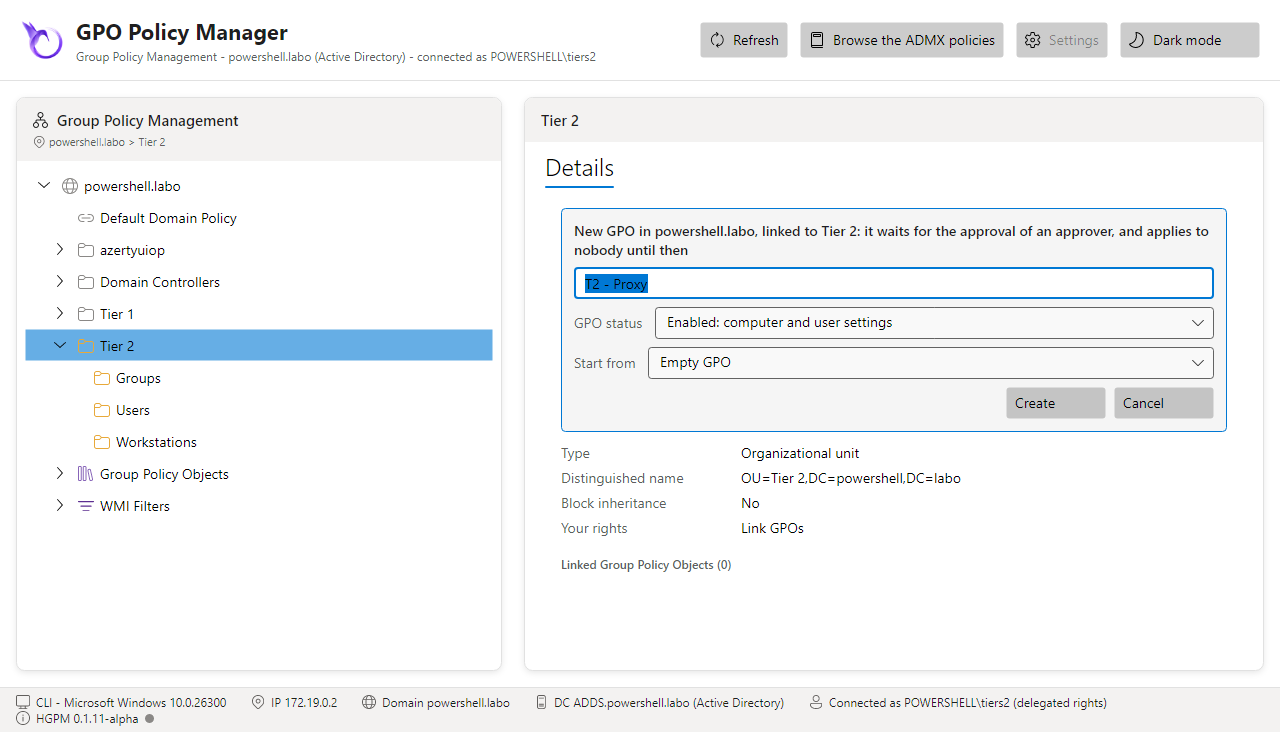
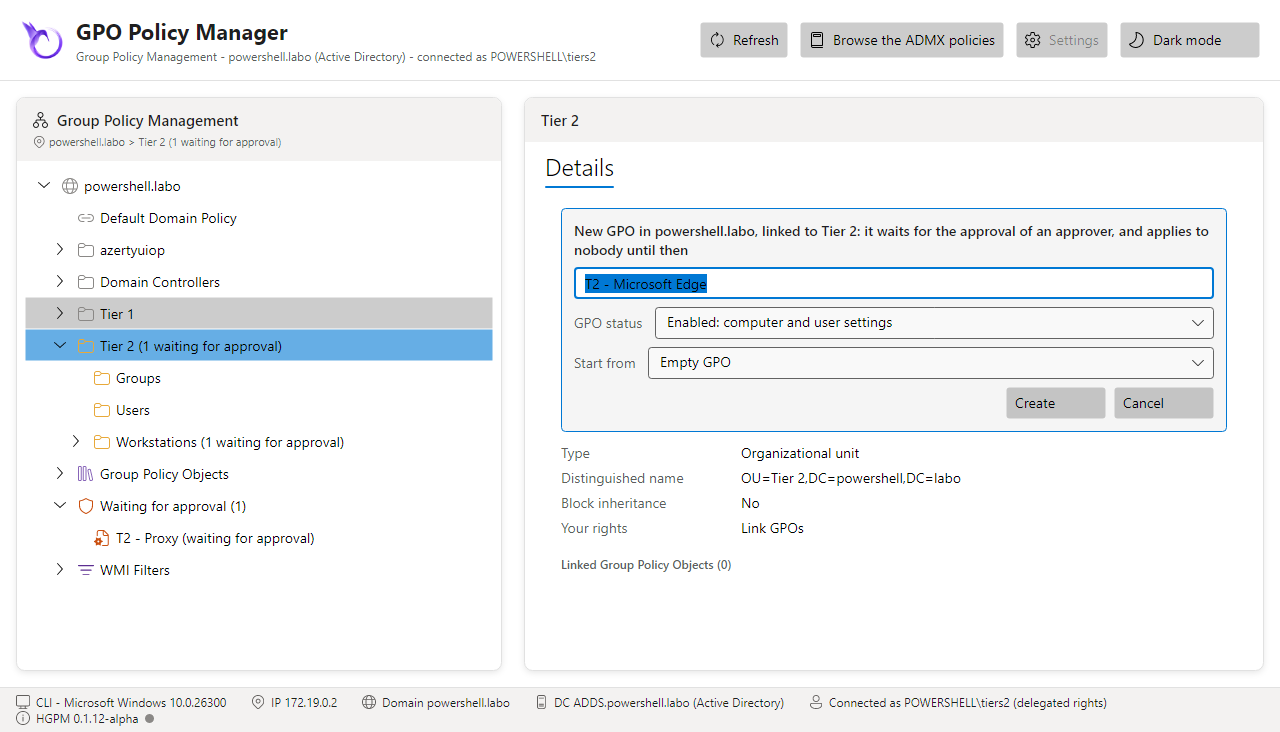
The Windows lab screenshots of a technician of Tier 1 and of Tier 2 taken again with the creation of GPOs delegated; what to do when a technician only links GPOs

diff --git a/docs/en/getting-started/lab.md b/docs/en/getting-started/lab.md
@@ -146,6 +146,12 @@ domain, greyed but the OUs of its tier, and the GPOs it creates wait for an appr
 greyed, the History tab and the deleted GPOs are not there (the backups are for Tier 0), and the
 audit log shows the changes of its tier only: empty for an account that changed nothing yet.
 
+!!! tip "Only **Link an Existing GPO...** in the menu of its OU"
+    The technician does not create GPOs: the rights of the workflow are missing (the script ran
+    before `Workflow.Creators` was set, or with `-WhatIf`). As a domain administrator,
+    `Initialize-PSGPOWorkflow` says what is missing (`Missing`), `Initialize-PSGPOWorkflow -Apply`
+    adds it; the technician opens its console again.
+
 === "hardenbox.labo (Samba AD)"
 
     **Tier 1** (`tiers1`)

diff --git a/docs/fr/getting-started/lab.md b/docs/fr/getting-started/lab.md
@@ -149,6 +149,12 @@ Paramètres est grisé, l'onglet Historique et les GPO supprimées n'y sont pas 
 pour le Tier 0), et le journal d'audit ne montre que les modifications de son tier : vide pour un
 compte qui n'a encore rien modifié.
 
+!!! tip "Seulement **Lier un objet de stratégie de groupe existant...** dans le menu de son UO"
+    Le technicien ne crée pas de GPO : les droits du workflow manquent (le script a été lancé
+    avant que `Workflow.Creators` soit réglé, ou avec `-WhatIf`). En administrateur du domaine,
+    `Initialize-PSGPOWorkflow` dit ce qui manque (`Missing`), `Initialize-PSGPOWorkflow -Apply`
+    l'ajoute ; le technicien rouvre sa console.
+
 === "hardenbox.labo (Samba AD)"
 
     **Tier 1** (`tiers1`)
